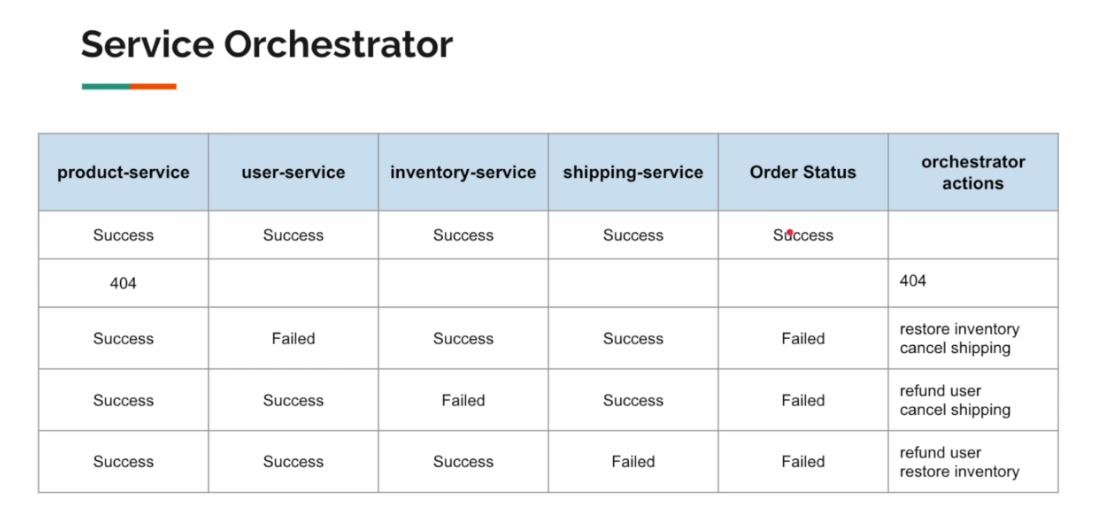
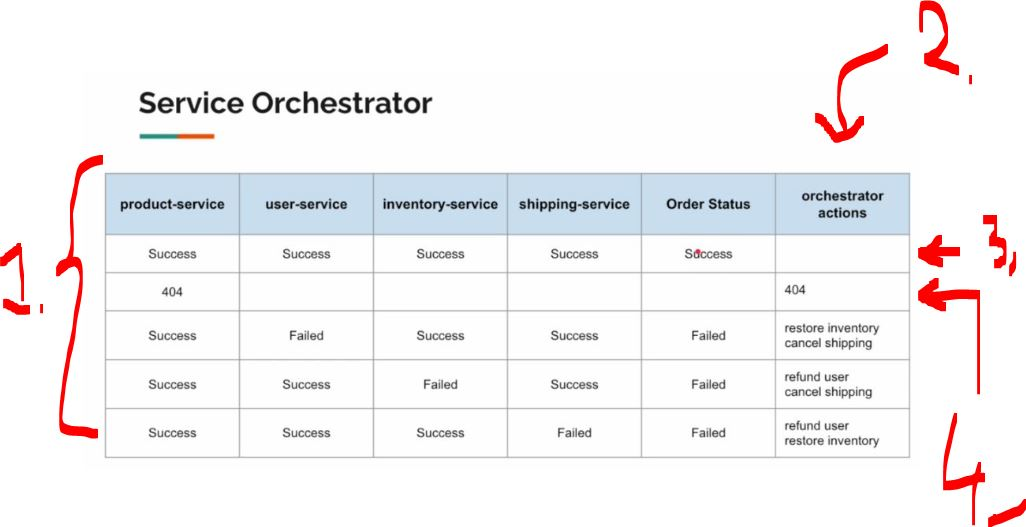
proceeded

diff --git a/Spring WebFlux Microservices Patterns and Advanced Resilience/Section 04/README.md b/Spring WebFlux Microservices Patterns and Advanced Resilience/Section 04/README.md
@@ -4,13 +4,12 @@ Section 04: Orchestrator Saga: Distributed Transactions & Parallel Workflow.
 
 # What I Learned.
 
-
 <div align="center">
     <img src="Orchestrator_Saga_Distributed_Transactions_And_Parallel_Workflow_Intro.JPG" alt="
     Spring webFlux: microservices patterns and advanced resilience!" width="700"/>
 </div>
 
-1. 
+1. We will be going thought **Orchestrator Pattern**! 
 
 <div align="center">
     <img src="Service_Orchestrator.JPG" alt="
@@ -45,7 +44,48 @@ Section 04: Orchestrator Saga: Distributed Transactions & Parallel Workflow.
     Spring webFlux: microservices patterns and advanced resilience!" width="700"/>
 </div>
 
+1. We have the matrix for actions that will be taken!
+2. There is the **orchestrator actions**, which is being taken!
+3. If, the `product-service` is having the **success** status, all the other should be also be **successful**!
+4. **404** from `product-service`, the orchestrator will take **404** action! 
+
+<div align="center">
+    <img src="Service_Orchestrator_Menu_Second.JPG" alt="
+    Spring webFlux: microservices patterns and advanced resilience!" width="700"/>
+</div>
+
+1. When the `user-service` is failing, We need to **restore inventory** and the **cancel the shipping**!
+2. When the `inventory-service` is failing, We need to **refund the user** and the **cancel shipping**!
+3. add here
+
 # Orchestrator Pattern - Intro.
+
+<div align="center">
+    <img src="In_This_Project_We_Have_Multiple_Enpoints.JPG" alt="
+    Spring webFlux: microservices patterns and advanced resilience!" width="700"/>
+</div>
+
+1. To illustrate this, we will have **multiple endpoints**!
+
+<div align="center">
+    <img src="Get_Endpoint_For_Product_Service.JPG" alt="
+    Spring webFlux: microservices patterns and advanced resilience!" width="700"/>
+</div>
+
+1. We have simple product endpoint for **GET**!
+    ````Java
+    {
+    "id": 1,
+    "category": "Books",
+    "description": "Heavy Duty Paper Table",
+    "price": 37
+    }
+    ````
+
+
+add user
+
+
 
 # Orchestrator Scope.
 
@@ -74,6 +114,25 @@ Section 04: Orchestrator Saga: Distributed Transactions & Parallel Workflow.
 # Order Cancellation Service.
 
 # Order Orchestrator Service.
+
+... add here the other captions
+
+
+# Summary.
+
+- add here the first pic
+
+
+<div align="center">
+    <img src="Summary_Service_Layer_Implementation.JPG" alt="
+    Spring webFlux: microservices patterns and advanced resilience!" width="700"/>
+</div>
+
+1. **Upstream** services! 
+2. The different implementations of the **orchestration implementations**! 
+
+
+
 
 
 

diff --git a/Spring WebFlux Microservices Patterns and Advanced Resilience/Section 05/README.md b/Spring WebFlux Microservices Patterns and Advanced Resilience/Section 05/README.md
@@ -4,6 +4,15 @@ Section 05: Orchestrator Saga: Distributed Transactions & Sequential Workflow.
 
 # What I Learned.
 
+<div align="center">
+    <img src="Orchestrator_Saga_Distributed_Transactions_And_Sequential_Workflow_Intro.JPG" alt="
+    Spring webFlux: microservices patterns and advanced resilience!" width="700"/>
+</div>
+
+1. This is **small variation** of **orchestration patter**! This **chained patter**!
+
+
+
 
 
 - The project code, for **add here** below!
